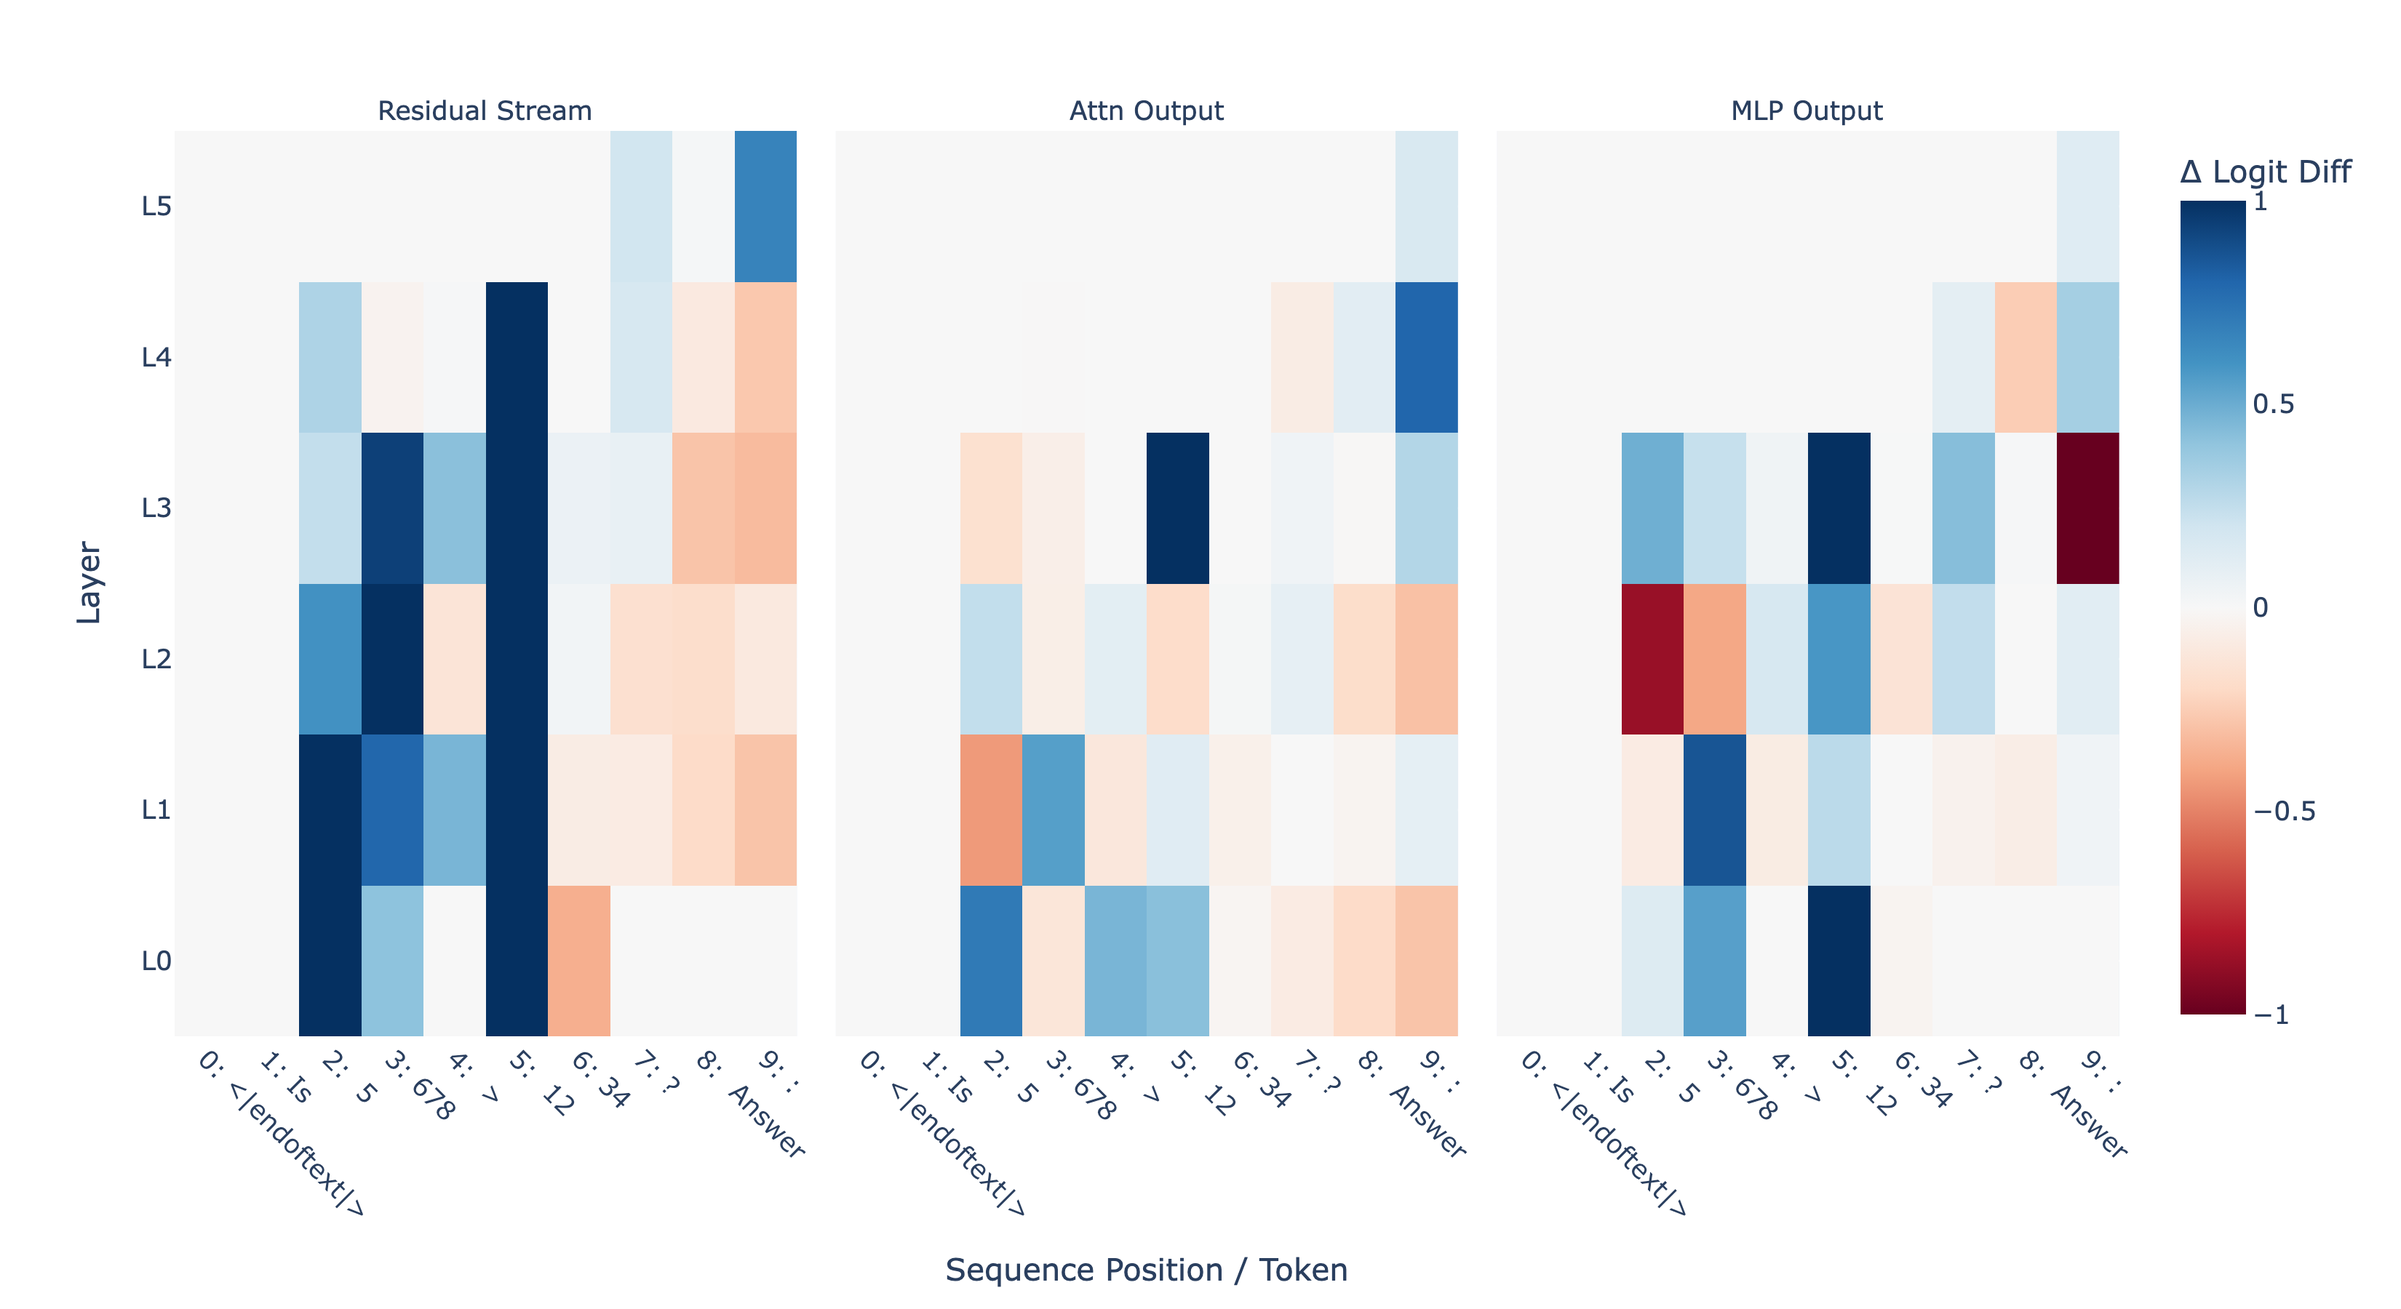
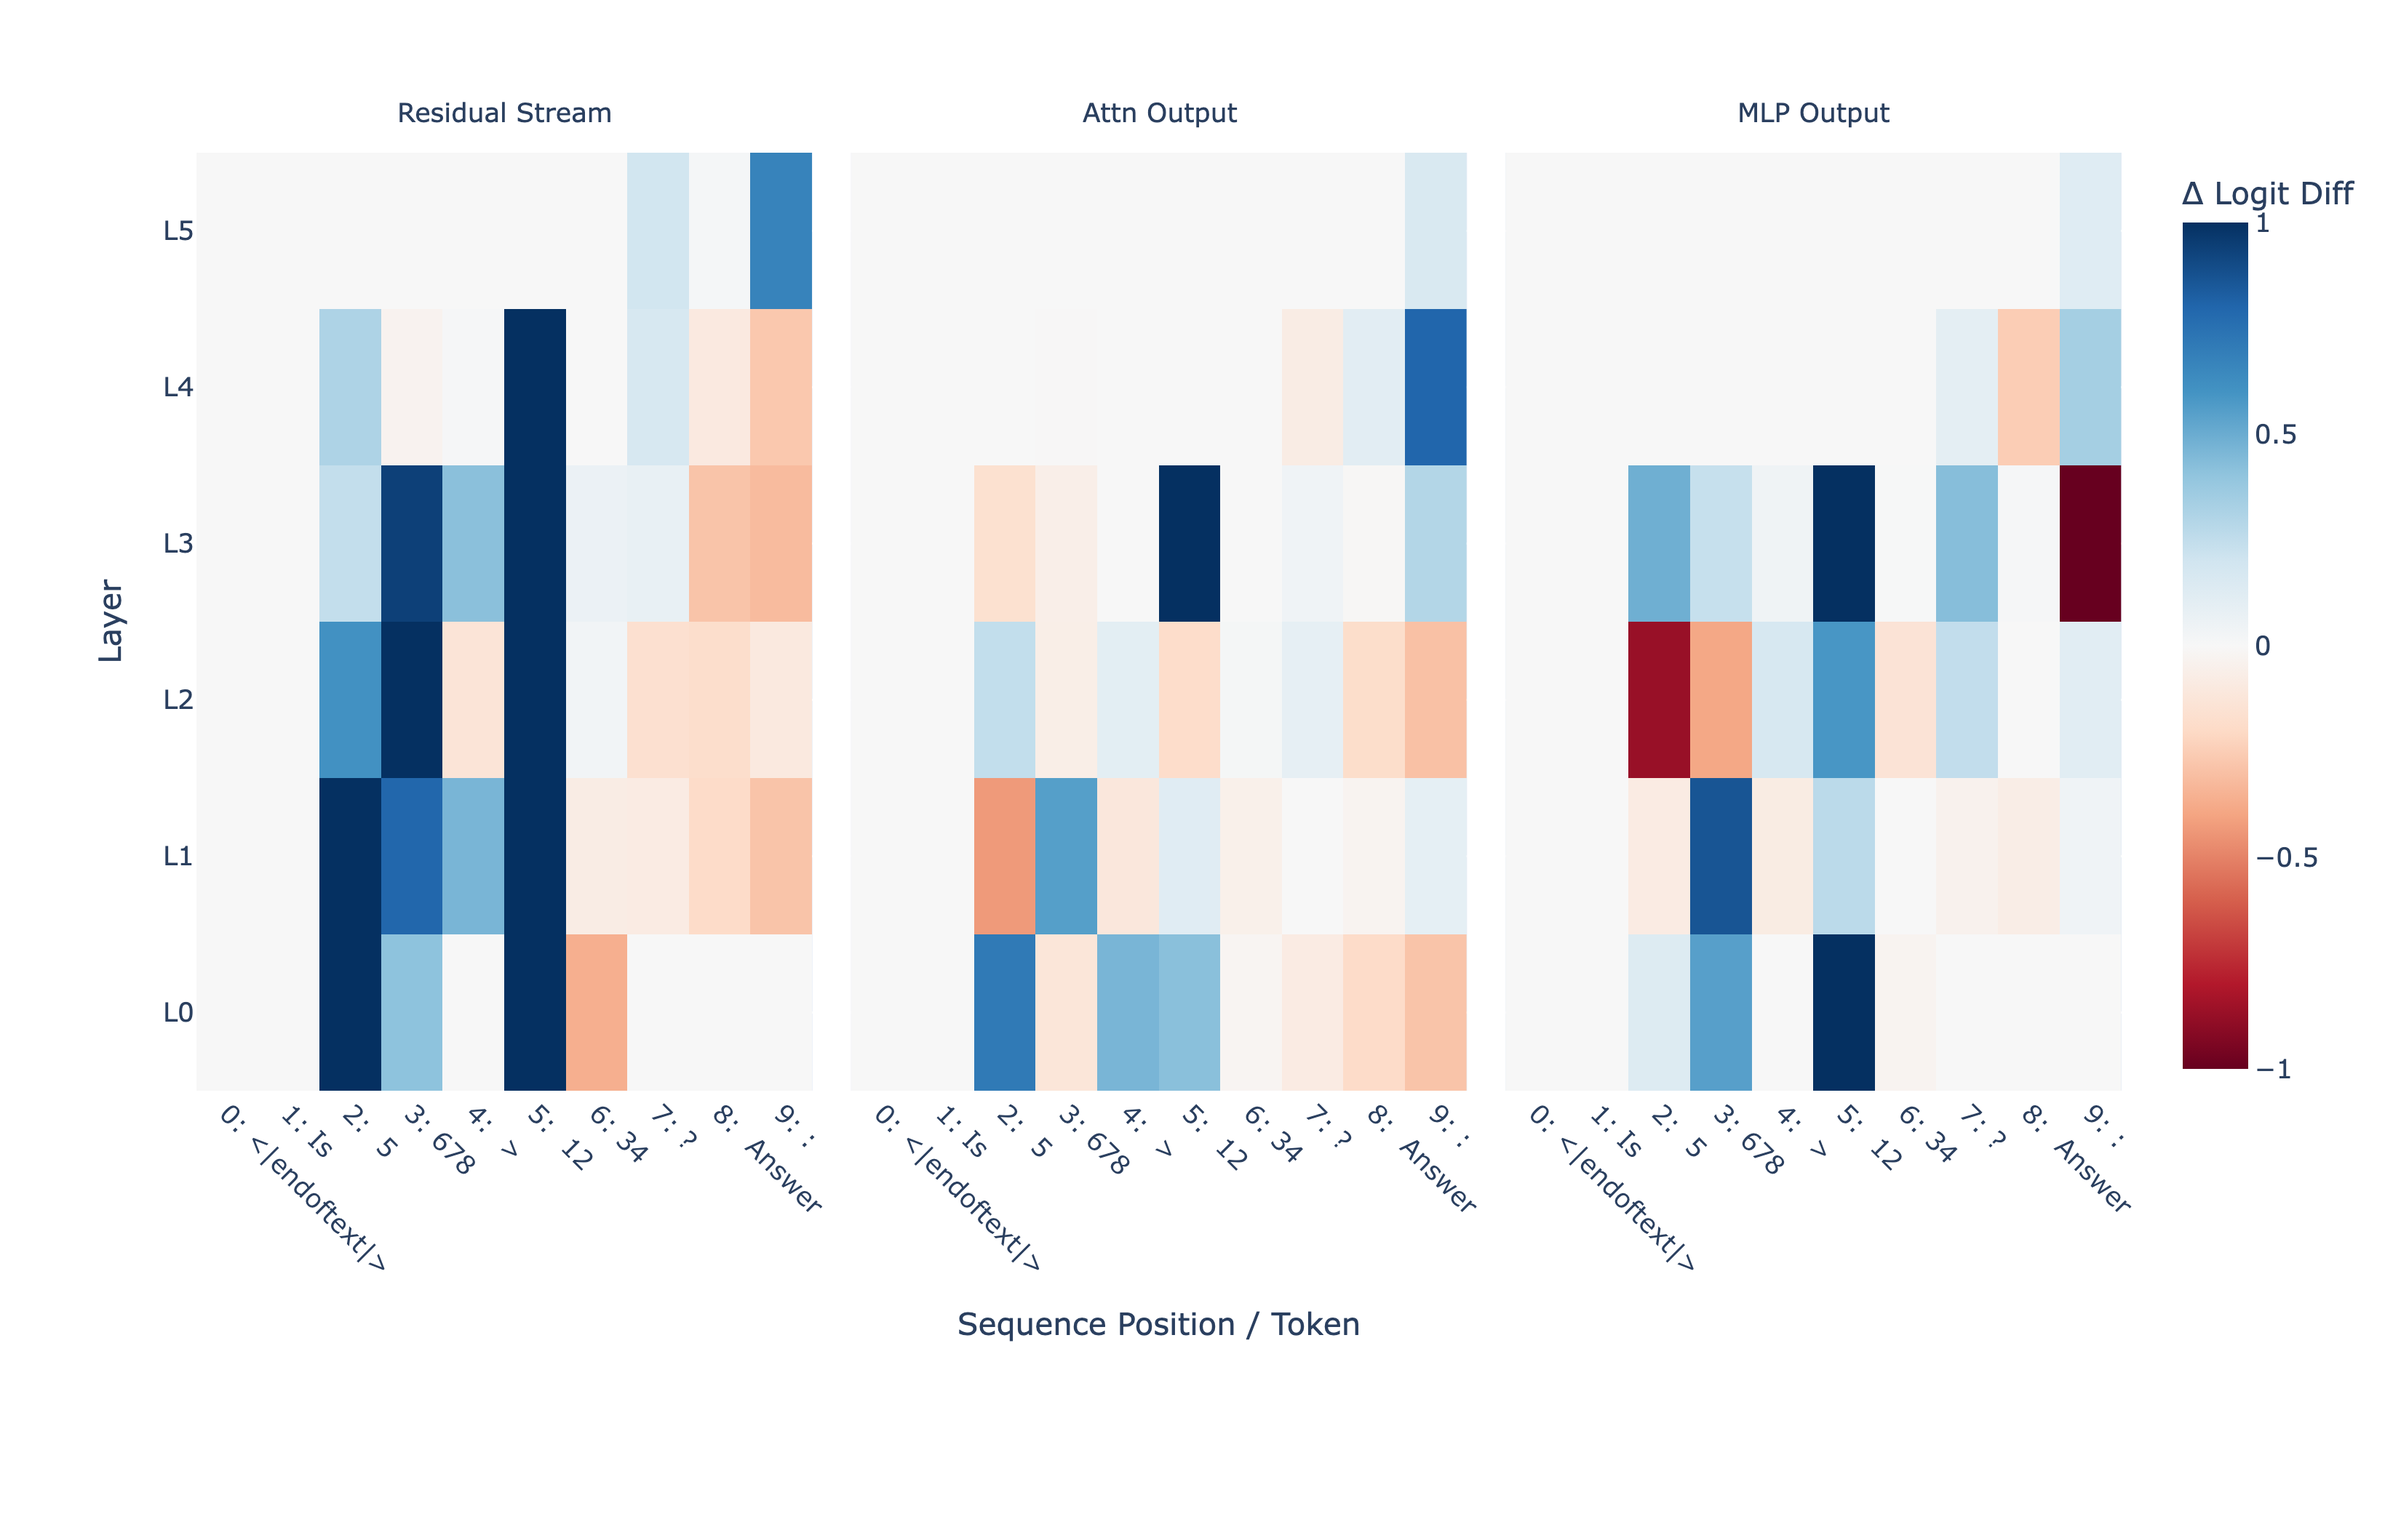
Activation Patching code update

diff --git a/src/Interpretability/Functions.py b/src/Interpretability/Functions.py
@@ -1372,6 +1372,9 @@ def plot_all_patch_effects_paper(model, patch_resid, patch_attn, patch_mlp, patc
     """
     os.makedirs(output_folder, exist_ok=True)
 
+    COMMON_HEIGHT = 700
+    COMMON_MARGIN = dict(l=90, r=40, t=70, b=200)
+
     num_layers = model.cfg.n_layers
     num_pos = patch_resid.size(1)
     num_heads = patch_heads.size(1)
@@ -1404,6 +1407,15 @@ def plot_all_patch_effects_paper(model, patch_resid, patch_attn, patch_mlp, patc
         color_continuous_scale="RdBu",
         return_fig=True
     )
+    fig_blocks.update_layout(
+        autosize=False,
+        height=COMMON_HEIGHT
+    )
+    fig_blocks.update_layout(margin=COMMON_MARGIN)
+    fig_blocks.for_each_annotation(
+        lambda a: a.update(y=1.02)
+    )
+    fig_blocks.update_yaxes(domain=[0, 1])
     fig_blocks.update_yaxes(title_text="Layer")
     fig_blocks.update_xaxes(tickangle=45)
     fig_blocks.layout.xaxis1.title = ""
@@ -1415,7 +1427,7 @@ def plot_all_patch_effects_paper(model, patch_resid, patch_attn, patch_mlp, patc
     fig_blocks.show()
 
     blocks_path = os.path.join(output_folder, "patch_blocks.png")
-    fig_blocks.write_image(blocks_path, scale=3, width=1100, height=600)
+    fig_blocks.write_image(blocks_path, scale=3, width=1100, height=COMMON_HEIGHT)
     print(f"Saved: {blocks_path}")
 
     # ============ RIGHT FIGURE (heads) ============
@@ -1430,20 +1442,26 @@ def plot_all_patch_effects_paper(model, patch_resid, patch_attn, patch_mlp, patc
     fig_heads.add_annotation(
         text="Attention Heads Patch Effects (Last Position)",
         x=0.5,
-        y=1.05,
+        y=1.06,
         xref="paper",
         yref="paper",
         showarrow=False,
         font=dict(size=16),
         align="center"
     )
+    fig_heads.update_layout(
+        autosize=False,
+        height=COMMON_HEIGHT
+    )
+    fig_heads.update_layout(margin=COMMON_MARGIN)
+    fig_heads.update_yaxes(domain=[0, 1])
     fig_heads.update_yaxes(title_text="Layer")
     fig_heads.update_xaxes(tickangle=45, title_text="Head")
     fig_heads.update_coloraxes(colorbar=dict(title=dict(text="Δ Logit Diff", side="top")))
     fig_heads.show()
 
     heads_path = os.path.join(output_folder, "patch_heads.png")
-    fig_heads.write_image(heads_path, scale=3, width=700, height=600)
+    fig_heads.write_image(heads_path, scale=3, width=600, height=COMMON_HEIGHT)
     print(f"Saved: {heads_path}")
 
 def head_mean_ablation_hook_by_pos(

diff --git a/src/Experiments/Logit/activation_patching.py b/src/Experiments/Logit/activation_patching.py
@@ -14,11 +14,11 @@ from Interpretability import build_dataset, build_dataset_space, compute_act_pat
 from neel_plotly import imshow
 import transformer_lens.utils as utils
 
-dataset = build_dataset(n=1, low=1000, high=9999)
+dataset = build_dataset(n=100, low=1000, high=9999)
 #dataset = build_dataset_space(n=100, low=1000, high=9999)
 
-model_name = "pythia-70m"
-#model_name = "qwen2.5-3b"
+#model_name = "pythia-70m"
+model_name = "qwen2.5-3b"
 #model_name = "qwen3-1.7b"
 #model_name = "phi-3"
 #model_name = "gemma-2-9b-it"
@@ -27,7 +27,7 @@ model_name = "pythia-70m"
 #model_name = "qwen1.5-4b"
 #model_name = "qwen3-4b"
 
-model = load_model(model_name, torch_dtype = t.float32)
+model = load_model(model_name, torch_dtype = t.bfloat16)
 device = get_device()
 
 yes_id = model.to_single_token(" Yes")
